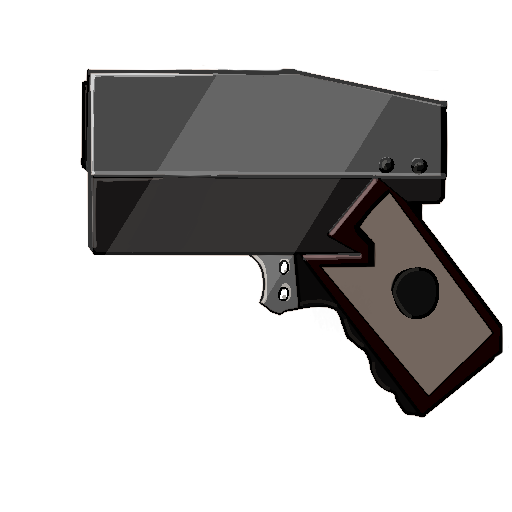
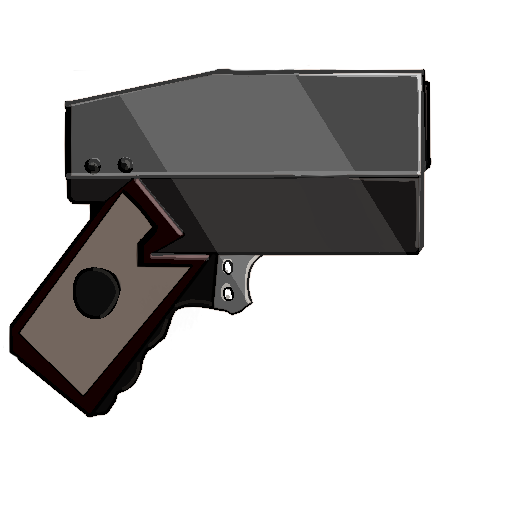
Fixed bullet sprites

diff --git a/Game engine/src/gameObjects/Projectile.java b/Game engine/src/gameObjects/Projectile.java
@@ -4,6 +4,7 @@ import java.awt.Dimension;
 import java.awt.Graphics;
 import java.awt.Graphics2D;
 import java.awt.Rectangle;
+import java.awt.geom.AffineTransform;
 import java.awt.image.BufferedImage;
 
 import displayComponents.AnimatedImage;
@@ -19,6 +20,7 @@ public class Projectile extends GameObject {
 	//========Variables========//
 	private int velocityX = 0;
 	private int velocityY = 0;
+	private double angle;
 	private int damage = 0;
 	private boolean isEnemyFire = false;
 	private BufferedImage sprite;
@@ -43,6 +45,7 @@ public class Projectile extends GameObject {
 		this.x = x;
 		this.y = y;
 		this.isJar = isJar;
+		this.angle = angle;
 		this.velocityX = (int)(velocity * Math.cos(angle));
 		this.velocityY = (int)(velocity * Math.sin(angle));
 		hp = -1;
@@ -59,11 +62,14 @@ public class Projectile extends GameObject {
 		y += velocityY;
 		rBox.x = x;
 		rBox.y = y;
-		
 		Graphics2D g2d = (Graphics2D) g;
+		rotateBullet(g2d);	
+	}
+	private void rotateBullet(Graphics2D g2d) {
+		g2d.rotate(angle, rBox.getCenterX(), rBox.getCenterY());
 		g2d.drawImage(sprite, x, y, rBox.width, rBox.height, null);
 		g2d.draw(rBox);
-		
+		g2d.rotate(-angle, rBox.getCenterX(), rBox.getCenterY());
 	}
 	//========Getters/Setters========//
 	public void setSize(Dimension size) {rBox = new Rectangle(size);}

diff --git a/Game engine/src/gameObjects/Player.java b/Game engine/src/gameObjects/Player.java
@@ -41,7 +41,7 @@ public class Player extends GameObject{
 	private boolean isAlive = true;
 	private int ammo = 20;
 	ArrayList<Gun> inventory = new ArrayList<Gun>();											//List of guns currently in the player's inventory
-	private boolean[] CollectedGuns = { false, false, false, false, false};
+	private boolean[] CollectedGuns = { true, false, false, false, false};
 	private int id;
 	
 	
@@ -389,5 +389,5 @@ public class Player extends GameObject{
 	public boolean[] getOwnedGuns() { return CollectedGuns; }
 	public void ownGun(boolean b, int n ) { CollectedGuns[n] = b; }
 	public int getId() { return id; }
-	public boolean isAlive() { return isAlive;	}
+	public boolean isAlive() { return isAlive; }
 }

diff --git a/Game engine/src/gameObjects/Enemy.java b/Game engine/src/gameObjects/Enemy.java
@@ -186,7 +186,7 @@ public class Enemy extends GameObject{
 			activeGun = (Gun) drop;
 			break;
 		case 5:																//Health Item
-			drop = new Health(-10, "Small Heath Potion", null, 2000);
+			drop = new Health(100, "Small Heath Potion", null, 2000);
 			activeGun = new Gun(5, 700, 10, 10, 10, 0, "Bad Gun", isJar);											//TODO Fix later to include actual sprite
 			break;
 		case 6:
